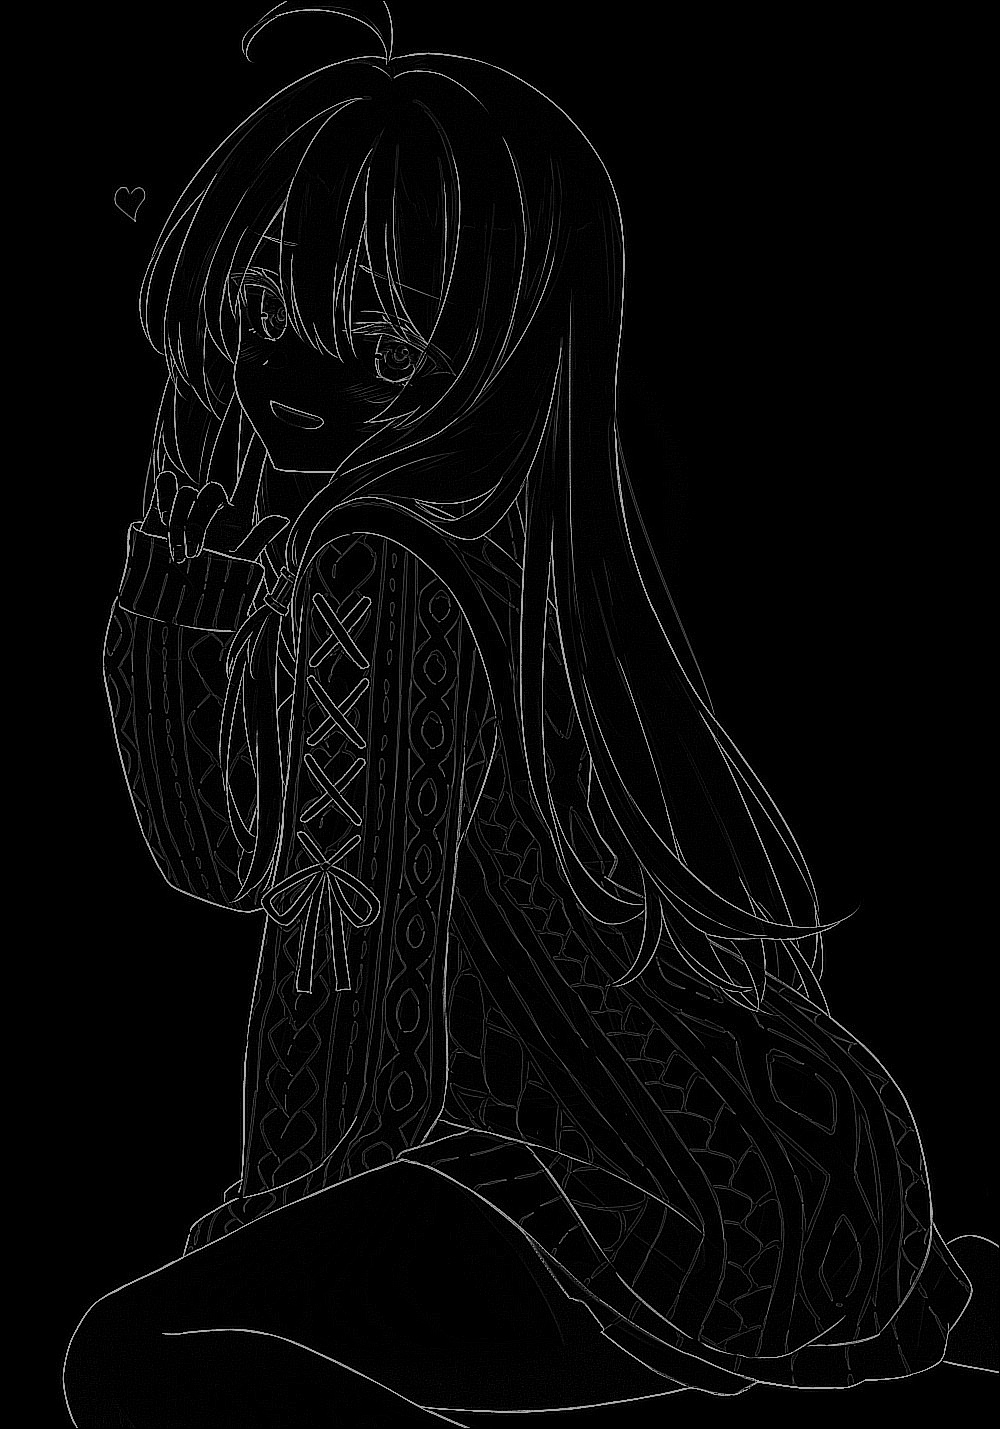
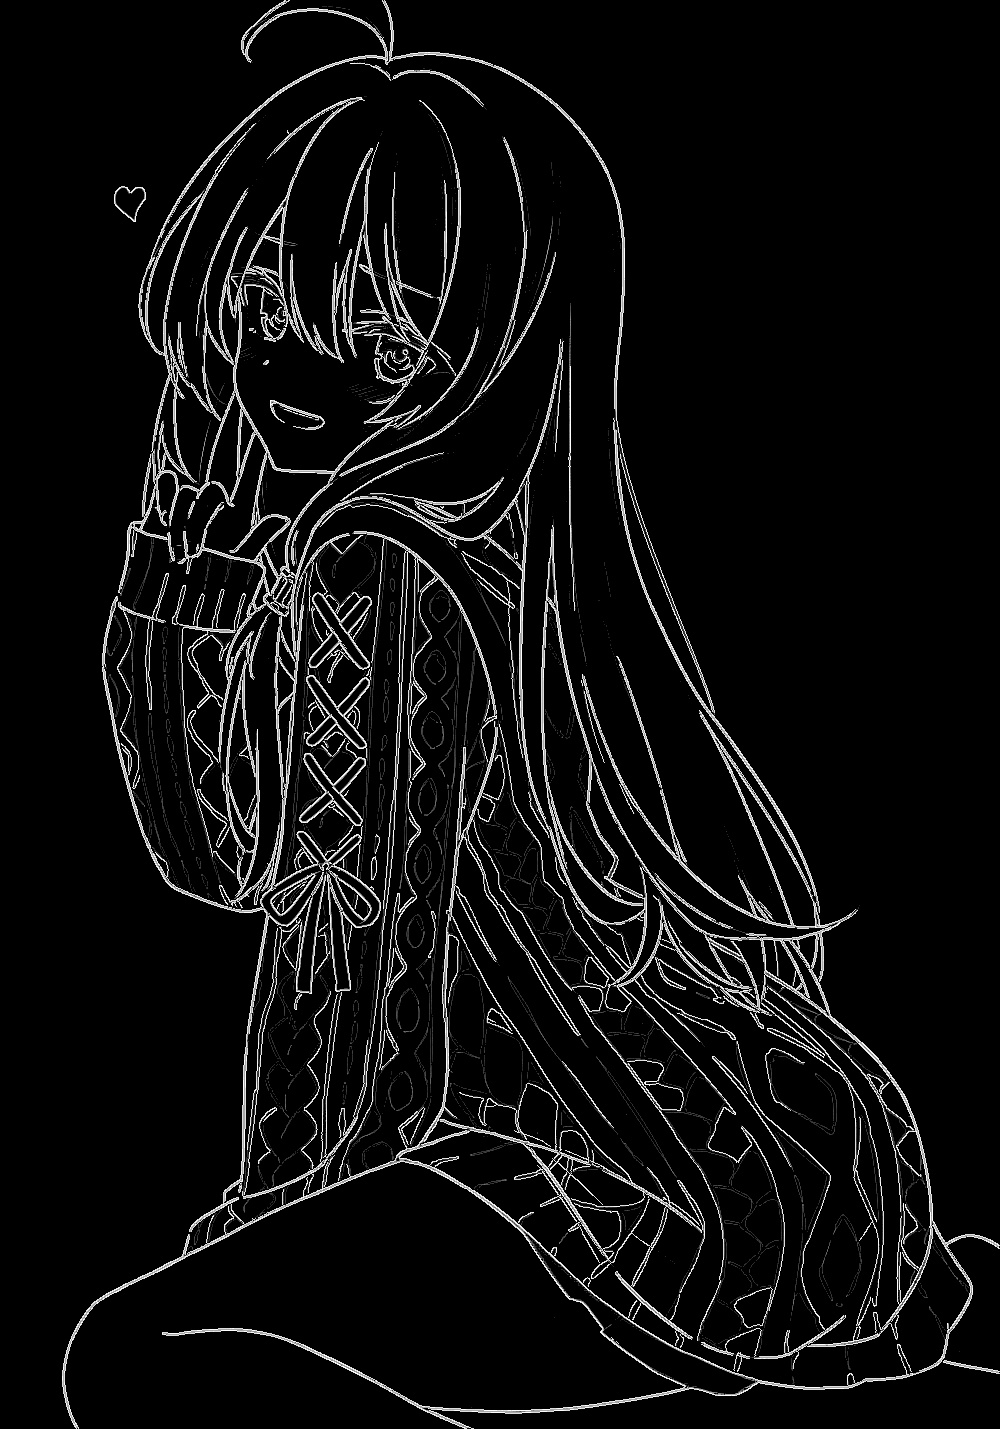
20231024 fixed crashes

diff --git a/main.py b/main.py
@@ -4,12 +4,40 @@ from PyQt5 import uic
 from PyQt5.QtGui import *
 from PyQt5.QtWidgets import QApplication, QWidget, QPushButton, QFrame, QColorDialog
 from PyQt5.QtGui import QColor
+from copy import deepcopy
 import cv2
 import numpy as np
 import filters
 import qimage2ndarray
 
 form_class = uic.loadUiType("program.ui")[0]
+def apply_filter(imgpath, sobelw, cannyw, lapw):
+    img = cv2.imread(imgpath, 0).astype(np.uint8)
+
+
+    dst1_sobel = cv2.Sobel(img, ddepth=-1,
+                           dx=1, dy=1,
+                           borderType=cv2.BORDER_DEFAULT)
+    dst1_canny = cv2.Canny(img, threshold1=100, threshold2=255)
+    dst1_lap = cv2.Laplacian(img, ksize=3, ddepth=-1, borderType=0)
+
+    return dst1_sobel * sobelw + dst1_canny * cannyw + dst1_lap * lapw
+
+def apply_gate(target, thresh):
+    target[target<thresh] = 0
+    return target
+
+def apply_denoise(target, strength, thresh):
+
+    res = cv2.fastNlMeansDenoising(target, target, strength, 5, 21)
+    print("---")
+    ker_sharpen = np.array([
+        [1, -2, 1],
+        [-2, 4, -2],
+        [1, -2, 1]])
+    #res = cv2.filter2D(target, -1, ker_sharpen)
+    res[res<thresh] = 0
+    return res
 
 class WindowClass(QMainWindow, form_class):
     def __init__(self) :
@@ -30,7 +58,7 @@ class WindowClass(QMainWindow, form_class):
         self.cannyRatioSlider.setSingleStep(1)
         self.gateSlider.setRange(0,255)
         self.gateSlider.setSingleStep(1)
-        self.denoiseSlider.setRange(0,30)
+        self.denoiseSlider.setRange(0,60)
         self.denoiseSlider.setSingleStep(1)
 
         self.gateApplied = False
@@ -48,18 +76,16 @@ class WindowClass(QMainWindow, form_class):
     def open_file_from_path(self):
         fname = QFileDialog.getOpenFileName(self, 'Open file', './')
         self.file_loc = str(fname[0])
-        input_to_show = cv2.imread(self.file_loc)
-        height, width, channel = map(int, input_to_show.shape)
+        input_to_show = cv2.imread(self.file_loc).astype(np.uint8)
+        height1, width1, channel1 = map(int, input_to_show.shape)
 
         #normalize
-        ratio1 = 331 / height
-        ratio2 = 471 / width
-        ratio = min(ratio1, ratio2)
-        print(ratio)
+        ratio1 = 341 / height1
+        ratio2 = 471 / width1
+        ratioi = min(ratio1, ratio2)
 
-        #crashes when using the ratio to image height and width(same with fx and fy)
         qImg = qimage2ndarray.array2qimage(cv2.resize(input_to_show,
-            dsize=(471,331)), normalize=False).rgbSwapped()
+            dsize=(int(width1*ratioi),int(height1*ratioi)))).rgbSwapped()
         self.inputImg.setPixmap(QPixmap(qImg))
 
         '''if self.file_loc:
@@ -82,22 +108,32 @@ class WindowClass(QMainWindow, form_class):
             if self.gateApplied:
                 thresh = self.gateSlider.value()
                 filtered = filters.apply_gate(filtered, thresh)
-            if self.denoiseApplied:
-                strength = self.denoiseSlider.value()
-                filtered = filters.apply_denoise(filtered, strength, thresh)
-            print(filtered.shape)
 
-            filtered_to_show = cv2.resize(filtered, dsize=(511, 461))
-            qImg = qimage2ndarray.array2qimage(filtered_to_show, normalize=False)
+            #file_name, file_extension = self.file_loc.split(".")
+            #cv2.imwrite(file_name + '_filtered.' + file_extension, filtered)
+
+            if self.denoiseApplied:
+                thresh = self.gateSlider.value()
+                strength = self.denoiseSlider.value()
+                filtered = filters.apply_denoise(filtered.astype(np.uint8), strength, thresh)
+
+            height2, width2 = filtered.shape
+
+            # normalize
+            ratio3 = 519 / height2
+            ratio4 = 569 / width2
+            ratioo = min(ratio3, ratio4)
+            print(ratioo)
+
+            qImg = qimage2ndarray.array2qimage(cv2.resize(filtered,
+                dsize=(int(width2*ratioo), int(height2*ratioo))).astype(np.uint8), normalize=False)
             self.outputImg.setPixmap(QPixmap(qImg))
             self.filtered = filtered
             del filtered
 
     def show_color_dialog(self):
         self.strokeColor = QColorDialog.getColor()
-        if self.strokeColor.isValid():
-            self.frm.setStyleSheet(
-                'QWidget { background-color: %s }' % self.strokeColor.name())
+        print(self.strokeColor.name())
 
     def save_image(self):
         file_name, file_extension = self.file_loc.split(".")

diff --git a/filters.py b/filters.py
@@ -1,5 +1,6 @@
 import cv2
 import numpy as np
+from copy import deepcopy
 
 def apply_filter(imgpath, sobelw, cannyw, lapw):
     img = cv2.imread(imgpath, 0).astype(np.uint8)
@@ -18,12 +19,19 @@ def apply_gate(target, thresh):
     return target
 
 def apply_denoise(target, strength, thresh):
-    print("---")
-    res = cv2.fastNlMeansDenoising(target, None, strength, strength, 5, 21)
+
+    res = cv2.fastNlMeansDenoising(target, None, strength, 5, 21)
+    res_copied = deepcopy(res)
+
+    non_zero_indices = np.argwhere(res_copied != 0)
+
+    for i, j in non_zero_indices:
+        if (res_copied[i-1:i+2, j-1:j+2] == 0).all():
+            res[i,j] = 0
+
     ker_sharpen = np.array([
-        [1, -2, 1],
-        [-2, 4, -2],
-        [1, -2, 1]])
-    #res = cv2.filter2D(target, -1, ker_sharpen)
-    res[res<thresh] = 0
+        [1, 1, 1],
+        [1, 1, 1],
+        [1, 1, 1]])
+
     return res

diff --git a/denoise.py b/denoise.py
@@ -1,0 +1,5 @@
+import cv2
+import numpy as np
+img = cv2.imread('96308619_p0_filtered.jpg')
+res = cv2.fastNlMeansDenoising(img, None, 30, 5, 21)
+cv2.imwrite('96308619_p0_filtered_denoised.jpg', res)
